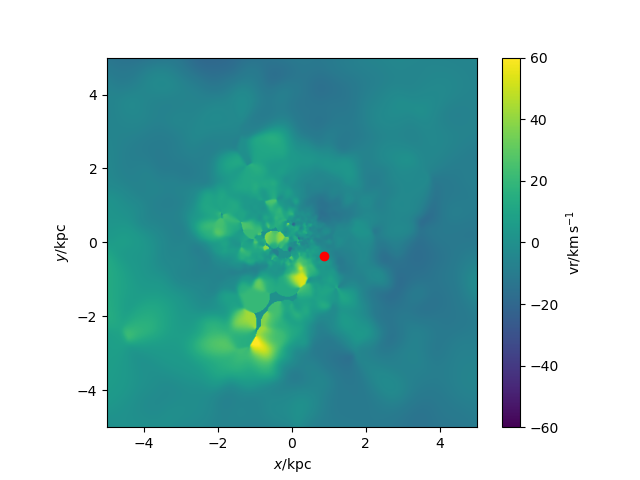
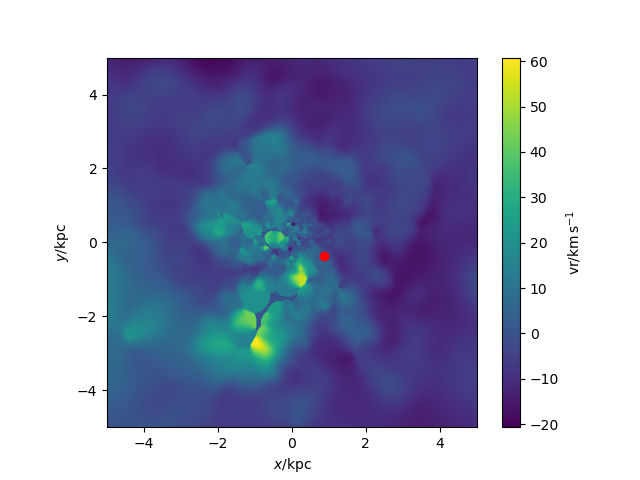
updated

diff --git a/velocity_iongas.py b/velocity_iongas.py
@@ -11,9 +11,9 @@ s.physical_units()
 pynbody.analysis.angmom.sideon(s)
 
 #filter to only use ionised gas
-GasFilter = pynbody.filt.HighPass('temp','4.2')
+GasFilter = pynbody.filt.HighPass('temp','15848 K')
 
 #creating image to show velocity of ionised gas
-sph.image(s.g,GasFilter,qty="vr",width=10,denoise=True,approximate_fast=False,log=False)
+sph.image(s.g[GasFilter],qty="vr",vmin=-20,width=10,denoise=True,approximate_fast=False,log=False)
 
 plt.show()

diff --git a/tempslice_velocity.py b/tempslice_velocity.py
@@ -15,7 +15,7 @@ pynbody.analysis.angmom.sideon(s)
 s.rotate_x(90)
 
 #creating temp slice with velocity plot
-sph.image(s.g,qty="vr",vmin=-60,vmax=60,denoise=True,approximate_fast=False,log=False)
+sph.image(s.g,qty="vr",denoise=True,approximate_fast=False,log=False)
 
 #function to find BH
 def findBH(s):
